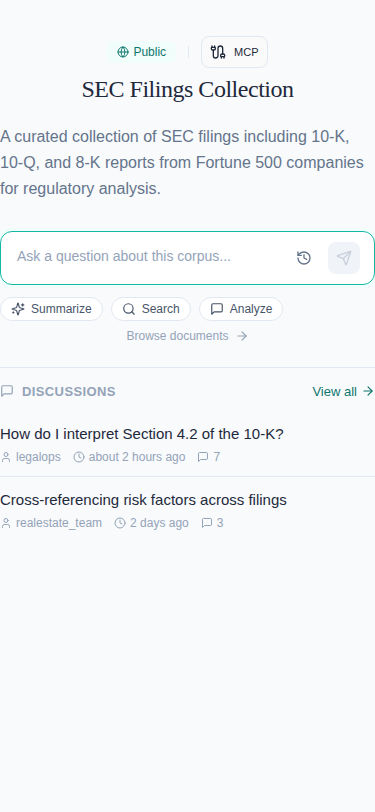
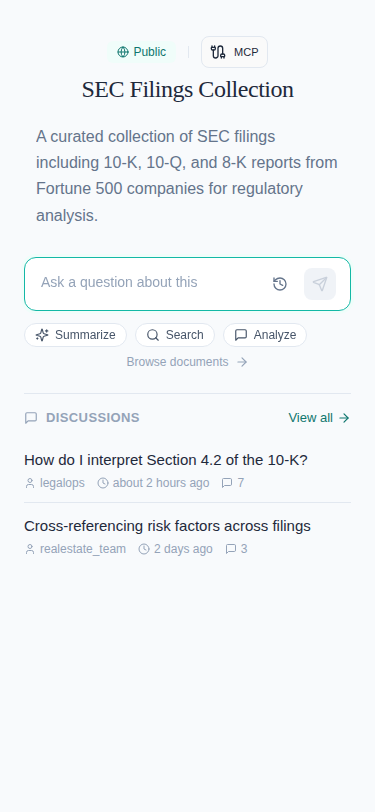
Fix corpus home landing zero-padding on mobile viewports
LandingContent and LandingHero set width: 100% with horizontal
padding but no box-sizing: border-box, causing the rendered width
to exceed the viewport (e.g. 375 + 48 = 423px). The parent's
overflow-x: hidden clipped the overflow but the padding effectively
added no visible margin — content ran edge-to-edge.

Adding box-sizing: border-box to both containers ensures padding
is included within width: 100%, giving proper side margins on
mobile. No visual change on desktop where max-width: 800px already
constrains the layout well within the viewport.

https://claude.ai/code/session_019tDhDBf9zJPpLADHkW7YeL

diff --git a/frontend/src/components/corpuses/CorpusHome/styles.ts b/frontend/src/components/corpuses/CorpusHome/styles.ts
@@ -77,6 +77,7 @@ export const LandingContent = styled.div`
   width: 100%;
   max-width: 800px;
   padding: 2rem 1.5rem;
+  box-sizing: border-box;
 
   ${mediaQuery.tablet} {
     padding: 1.25rem 1rem 2.5rem;
@@ -96,6 +97,7 @@ export const LandingHero = styled.div`
   gap: 1rem;
   padding: 2rem 1rem;
   width: 100%;
+  box-sizing: border-box;
 
   ${mediaQuery.tablet} {
     padding: 1.25rem 0.75rem;
